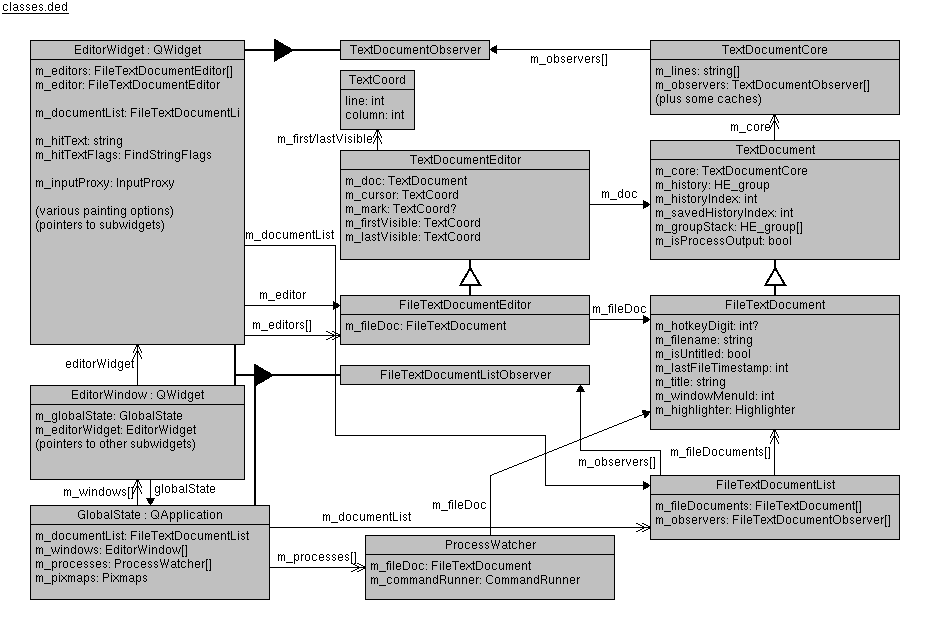
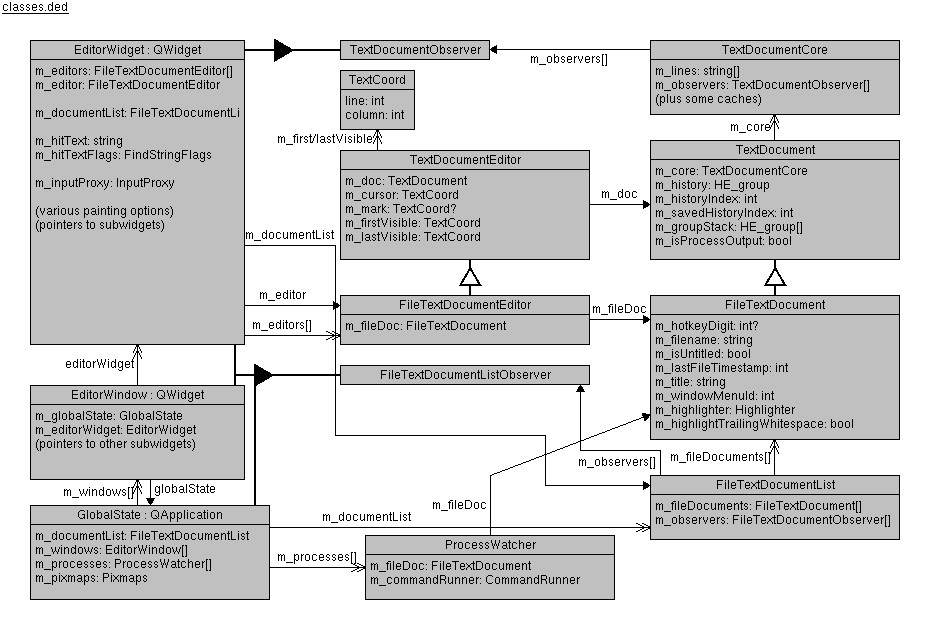
Move m_highlightTrailingWhitespace from EditorWidget to FileTextDocument.
This allows the option to vary by document.  Also set it to false for
process output documents.

Changed region(s): [[0.6962, 0.6677, 0.9686, 0.7284]]

diff --git a/editor-widget.cc b/editor-widget.cc
@@ -99,7 +99,6 @@ EditorWidget::EditorWidget(FileTextDocument *tdf,
     m_minihexFont(),
     m_visibleWhitespace(true),
     m_whitespaceOpacity(32),
-    m_highlightTrailingWhitespace(true),
     m_trailingWhitespaceBgColor(255, 0, 0, 64),
     m_softMarginColumn(72),
     m_visibleSoftMargin(true),
@@ -935,7 +934,8 @@ void EditorWidget::drawOneChar(QPainter &paint, QtBDFFont *font,
 
     if (codePoint == ' ') {
       // Optionally highlight trailing whitespace.
-      if (withinTrailingWhitespace && m_highlightTrailingWhitespace) {
+      if (withinTrailingWhitespace &&
+          m_editor->m_fileDoc->m_highlightTrailingWhitespace) {
         paint.fillRect(bounds, m_trailingWhitespaceBgColor);
       }
 
@@ -1651,6 +1651,18 @@ void EditorWidget::hideInfo()
     delete m_infoBox;
     m_infoBox = NULL;
   }
+}
+
+
+bool EditorWidget::highlightTrailingWhitespace() const
+{
+  return m_editor->m_fileDoc->m_highlightTrailingWhitespace;
+}
+
+void EditorWidget::toggleHighlightTrailingWhitespace()
+{
+  m_editor->m_fileDoc->m_highlightTrailingWhitespace =
+    !m_editor->m_fileDoc->m_highlightTrailingWhitespace;
 }
 
 

diff --git a/editor-window.cc b/editor-window.cc
@@ -242,7 +242,7 @@ void EditorWindow::buildMenu()
     CHECKABLE_ACTION(m_toggleHighlightTrailingWSAction,
       "Highlight &trailing whitespace",
       SLOT(viewToggleHighlightTrailingWS()),
-      this->m_editorWidget->m_highlightTrailingWhitespace);
+      this->m_editorWidget->highlightTrailingWhitespace());
 
     menu->addAction("Set &Highlighting...", this,
       &EditorWindow::viewSetHighlighting);
@@ -1000,8 +1000,10 @@ void EditorWindow::viewSetSoftMarginColumn()
 
 void EditorWindow::viewToggleHighlightTrailingWS()
 {
-  CHECKABLE_MENU_TOGGLE(m_toggleHighlightTrailingWSAction,
-    this->m_editorWidget->m_highlightTrailingWhitespace);
+  this->m_editorWidget->toggleHighlightTrailingWhitespace();
+
+  // Includes firing 'editorViewChanged'.
+  this->m_editorWidget->redraw();
 }
 
 
@@ -1159,6 +1161,10 @@ void EditorWindow::editorViewChanged()
   }
   sb << " - " << appName;
   this->setWindowTitle(toQString(sb));
+
+  // Trailing whitespace menu checkbox.
+  this->m_toggleHighlightTrailingWSAction->setChecked(
+    this->m_editorWidget->highlightTrailingWhitespace());
 }
 
 

diff --git a/editor-widget.h b/editor-widget.h
@@ -134,10 +134,10 @@ public:      // data
   // Value in [0,255], where 255 is fully opaque.
   int m_whitespaceOpacity;
 
-  // True to draw trailing whitespace with 'm_trailingWhitespaceBgColor'.
-  bool m_highlightTrailingWhitespace;
-
   // Overlay color for trailing whitespace, including its alpha.
+  //
+  // This is only used when drawing a document whose
+  // 'm_highlightTrailingWhitespace' flag is true.
   QColor m_trailingWhitespaceBgColor;
 
   // Column number for a soft margin.  This is used for text
@@ -397,6 +397,12 @@ public:      // funcs
 
   // Offset from one baseline to the next, in pixels.
   int lineHeight() const { return m_fontHeight+m_interLineSpace; }
+
+  // True if trailing whitespace should be shown.
+  bool highlightTrailingWhitespace() const;
+
+  // Toggle whether trailing whitespace should be shown for this document.
+  void toggleHighlightTrailingWhitespace();
 
   // redraw widget, etc.; calls updateView() and viewChanged()
   void redraw();

diff --git a/file-td.h b/file-td.h
@@ -76,9 +76,22 @@ public:      // data
   // contents)
   Highlighter *m_highlighter;      // (nullable owner)
 
+  // When true, the widget will highlight instances of whitespace at
+  // the end of a line.  Initially true, but is set to false by
+  // 'setIsProcessOutput(true)'.
+  //
+  // In a sense, this is a sort of "overlay" highlighter, as it acts
+  // after the main highlighter.  I could perhaps generalize the idea
+  // of highlighting compositions at some point.
+  bool m_highlightTrailingWhitespace;
+
 public:      // funcs
   FileTextDocument();
   ~FileTextDocument();
+
+  // Perform additional actions when marking a document as "process
+  // output".
+  virtual void setIsProcessOutput(bool isProcessOutput) OVERRIDE;
 
   // ---------------------------- hotkeys ---------------------------
   // Return true if this buffer has an assigned hotkey.

diff --git a/td.h b/td.h
@@ -68,7 +68,7 @@ private:     // funcs
 
 public:      // funcs
   TextDocument();      // empty buffer, empty history, cursor at 0,0
-  ~TextDocument();
+  virtual ~TextDocument();
 
   // Read-only access to the underlying representation.  Use of this
   // should be unusual.
@@ -111,7 +111,10 @@ public:      // funcs
   // Change the 'm_isProcessOutput' setting.  Setting it to true will
   // immediately discard all undo/redo history.  There must not be any
   // open history groups.
-  void setIsProcessOutput(bool isProcessOutput);
+  //
+  // This also has on the highlighting state in FileTextDocument, which
+  // is why it is virtual.
+  virtual void setIsProcessOutput(bool isProcessOutput);
 
   // ------------- modify document, appending to history -----------
   // Insert 'text' at 'tc'.  'text' may contain newline characters.

diff --git a/file-td.cc b/file-td.cc
@@ -31,7 +31,8 @@ FileTextDocument::FileTextDocument()
     m_lastFileTimestamp(0),
     m_title(),
     m_windowMenuId(s_nextWindowMenuId++),
-    m_highlighter(NULL)
+    m_highlighter(NULL),
+    m_highlightTrailingWhitespace(true)
 {
   FileTextDocument::s_objectCount++;
 }
@@ -41,6 +42,16 @@ FileTextDocument::~FileTextDocument()
   FileTextDocument::s_objectCount--;
   if (m_highlighter) {
     delete m_highlighter;
+  }
+}
+
+
+void FileTextDocument::setIsProcessOutput(bool isProcessOutput)
+{
+  this->TextDocument::setIsProcessOutput(isProcessOutput);
+
+  if (isProcessOutput) {
+    this->m_highlightTrailingWhitespace = false;
   }
 }
 
